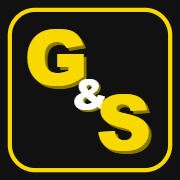
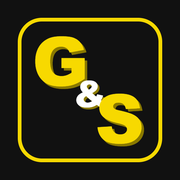
Einparken: 7 Versuche pro Lücke, Baum im Eck bei Lücke 7; App-Symbol mit Abstand zum Rand (maskable)

Changed region(s): [[0.0278, 0.0278, 0.9722, 0.9722]]

diff --git a/autohaus-einparken/spiel.js b/autohaus-einparken/spiel.js
@@ -8,7 +8,7 @@
   const W = 600, HW = 900;   // Spielwelt in Einheiten (hochkant); im Querformat wird sie gedreht
   const AL = 92, AB = 40;    // Länge und Breite eines Autos (Verhältnis wie beim gemalten Auto)
   const TEMPO = 230;         // Einheiten pro Sekunde
-  const VERSUCHE = 6;   // je Lücke; jeder Versuch ohne Punkte (Unfall oder nicht ganz drin) zählt, danach ist Schluss – die bisherigen Punkte bleiben
+  const VERSUCHE = 7;   // je Lücke (Nutzer 18.10.2026: 7 statt 6); jeder Versuch ohne Punkte (Unfall oder nicht ganz drin) zählt, danach ist Schluss – die bisherigen Punkte bleiben
   // Aktuelle Opel-Lackfarben (Corsa, Mokka, Grandland laut carwow.de, Okt. 2026); Farbwerte nachempfunden, nicht offiziell.
   // Kein Gelb: das eigene Auto hat die Kundenfarbe.
   const FARBEN = [
@@ -52,7 +52,7 @@
     // zwischen zwei Autos an der Mauer; davor steht schräg ein Autotransporter, dazu Kegel und ein Baum
     { start: { x: 530, y: 810, a: 0 }, ziel: { x: 365, y: 112, w: 58, h: 102, a: P / 2 },
       hindernisse: [wand(300, 62, 600, 14), auto(110, 112, P / 2), auto(235, 112, P / 2),   // Nutzer: rechts der Lücke frei, damit man gerade von rechts einfahren kann
-        lkw(250, 430, P / 2 + 0.1), pylon(480, 620), pylon(560, 330), baum(80, 760, 0, 100)], logo: [300, 760] },
+        lkw(250, 430, P / 2 + 0.1), pylon(480, 620), pylon(560, 330), baum(80, 760, 0, 100), baum(560, 112, 1, 80)], logo: [300, 760] },   // Baum rechts oben im Eck (Nutzer)
   ];
   // Höchstpunkte je Lücke: schwerere Lücken bringen mehr, zusammen 1.000 (wie in allen Spielen)
   const MAX = [75, 100, 125, 150, 150, 175, 225];   // sieben Lücken (Nutzer, 18.10.2026)
@@ -577,7 +577,7 @@
     texte: {
       titel: 'Einparken',
       untertitel: 'Passt du in jede Lücke?',
-      anleitung: 'Zieh mit dem Finger eine Linie vom Auto in die markierte Parklücke – das Auto fährt sie nach. Je gerader und mittiger, desto mehr Punkte. Pro Lücke sechs Versuche.',
+      anleitung: 'Zieh mit dem Finger eine Linie vom Auto in die markierte Parklücke – das Auto fährt sie nach. Je gerader und mittiger, desto mehr Punkte. Pro Lücke sieben Versuche.',
       ende: 'Einparken auf Knopfdruck? Unsere Neuwagen helfen mit Kamera und Parkassistent.',
     },
     // Aufnahmen (Pixabay Content License); 'crash' ersetzt den erzeugten Ton gleichen Namens
